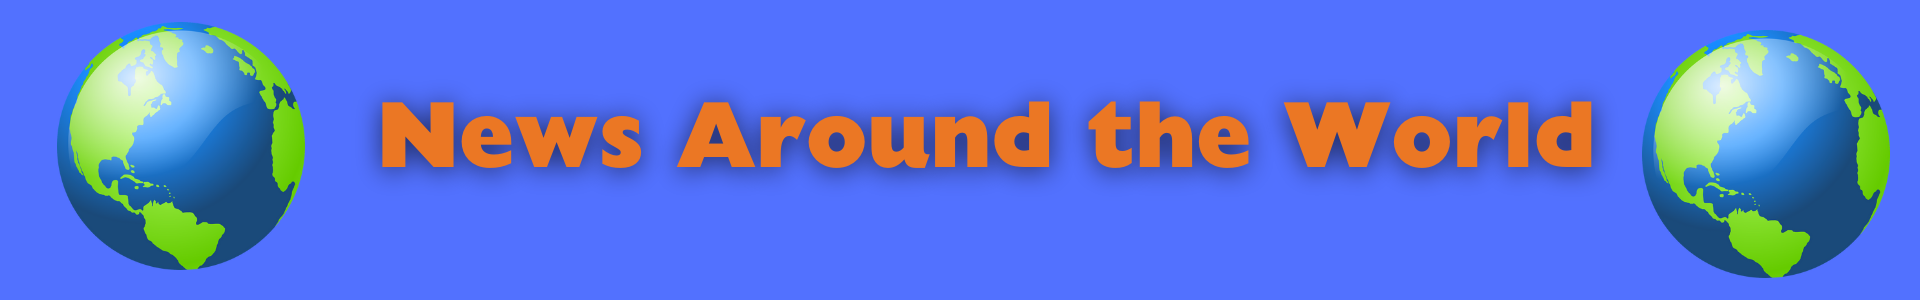
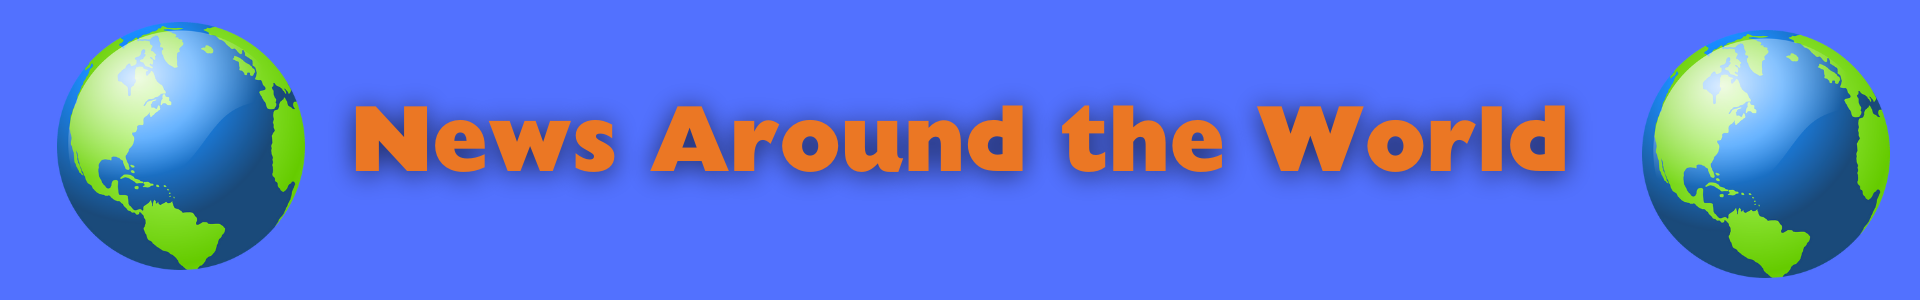
10-13-24 PM2

Changed region(s): [[0.1562, 0.33, 0.8438, 0.6]]

diff --git a/midterm-review/index.html b/midterm-review/index.html
@@ -3,7 +3,6 @@
 <html lang="en">
 
     <head>
-
         <meta charset="utf-8">
 	<meta name="viewport" content="width=device-width, initial-scale=1">
 	<link href="style.css" rel="stylesheet" type="text/css">
@@ -14,6 +13,10 @@
 <body>
 	<!-- Open content wrapper  -->
 	<div id="content">
+
+	<div id="masthead">
+	<img src="news-around-the-world.png" alt="news-around-the-world" id="masthead">
+	</div>
 	
 	<div id="lead-image-container">
 	<div id="lead-image">
@@ -70,7 +73,7 @@
 
 	<p>Investors including former President Barack Obama, Nike, Jordan Brand, and former NBA players such as Joakim Noah and Deng helped the league 		start fast. It has continued to grow, as attendance at BAL games increased 73% from 2023, according to the NBA. More than 120,000 fans attended BAL 		games.</p>
 
-	<blockquote> We see the investment the NBA has put in the continent as a long-term investment. -Clare Akamanzi</blockquote>
+	<blockquote> We see the investment the NBA has put in the continent as a long-term investment. -Clare Akamanzi, CEO BAL</blockquote>
 
 	<p>Like many international ventures launched by U.S. pro leagues, the NBA’s efforts haven’t been profitable so far. Profits will eventually come, 		according to BAL’s CEO Clare Akamanzi.</p>
 
@@ -88,7 +91,7 @@
 
 	<div id="second-inline-image-container">
 	<div id="second-inline-image">
-	<img src="fan-practicing-basketball.jpg" alt="nba-academy-africa" id="second-inline-image">
+	<img src="fan-practicing-basketball.jpg" alt="fan-practicing-basketball" id="second-inline-image">
 	<figcaption> A young fan attending the BAL Championship practices her basketball-shooting skills outside BK Arena in Kigali, Rwanda on June 1. —Eddy 	Rizkalla/Capital News Service
 	</figcaption> 
 	</div>

diff --git a/midterm-review/style.css b/midterm-review/style.css
@@ -1,3 +1,6 @@
+#masthead {
+	width: 900px;
+	}
 
 #content {
 	margin: 0 auto;
@@ -6,7 +9,8 @@
 
 #lead-image-container {
 	text-align: left;
-	font-size: 1em;
+	font-size: 10px;
+	font-family: Georgia, serif;
 	color: #5a5959; 
 	margin-bottom: 20px;
 	}
@@ -53,7 +57,7 @@ p { font-family: Georgia, serif;
 
 blockquote {
 	display: block;
-	margin-top: 1 em;
+	margin-top: 1em;
 	margin-bottom: 1em;
 	margin-left: 200px;
 	margin-right: 200px;
@@ -87,9 +91,9 @@ blockquote {
 	}
 
 .links a:hover {
-	color: #33485e;
+	color: #25ce2e;
 	}
 
 .links a:visited {
-	color: #e333ff;
+	color: #f74e2a;
 	}
